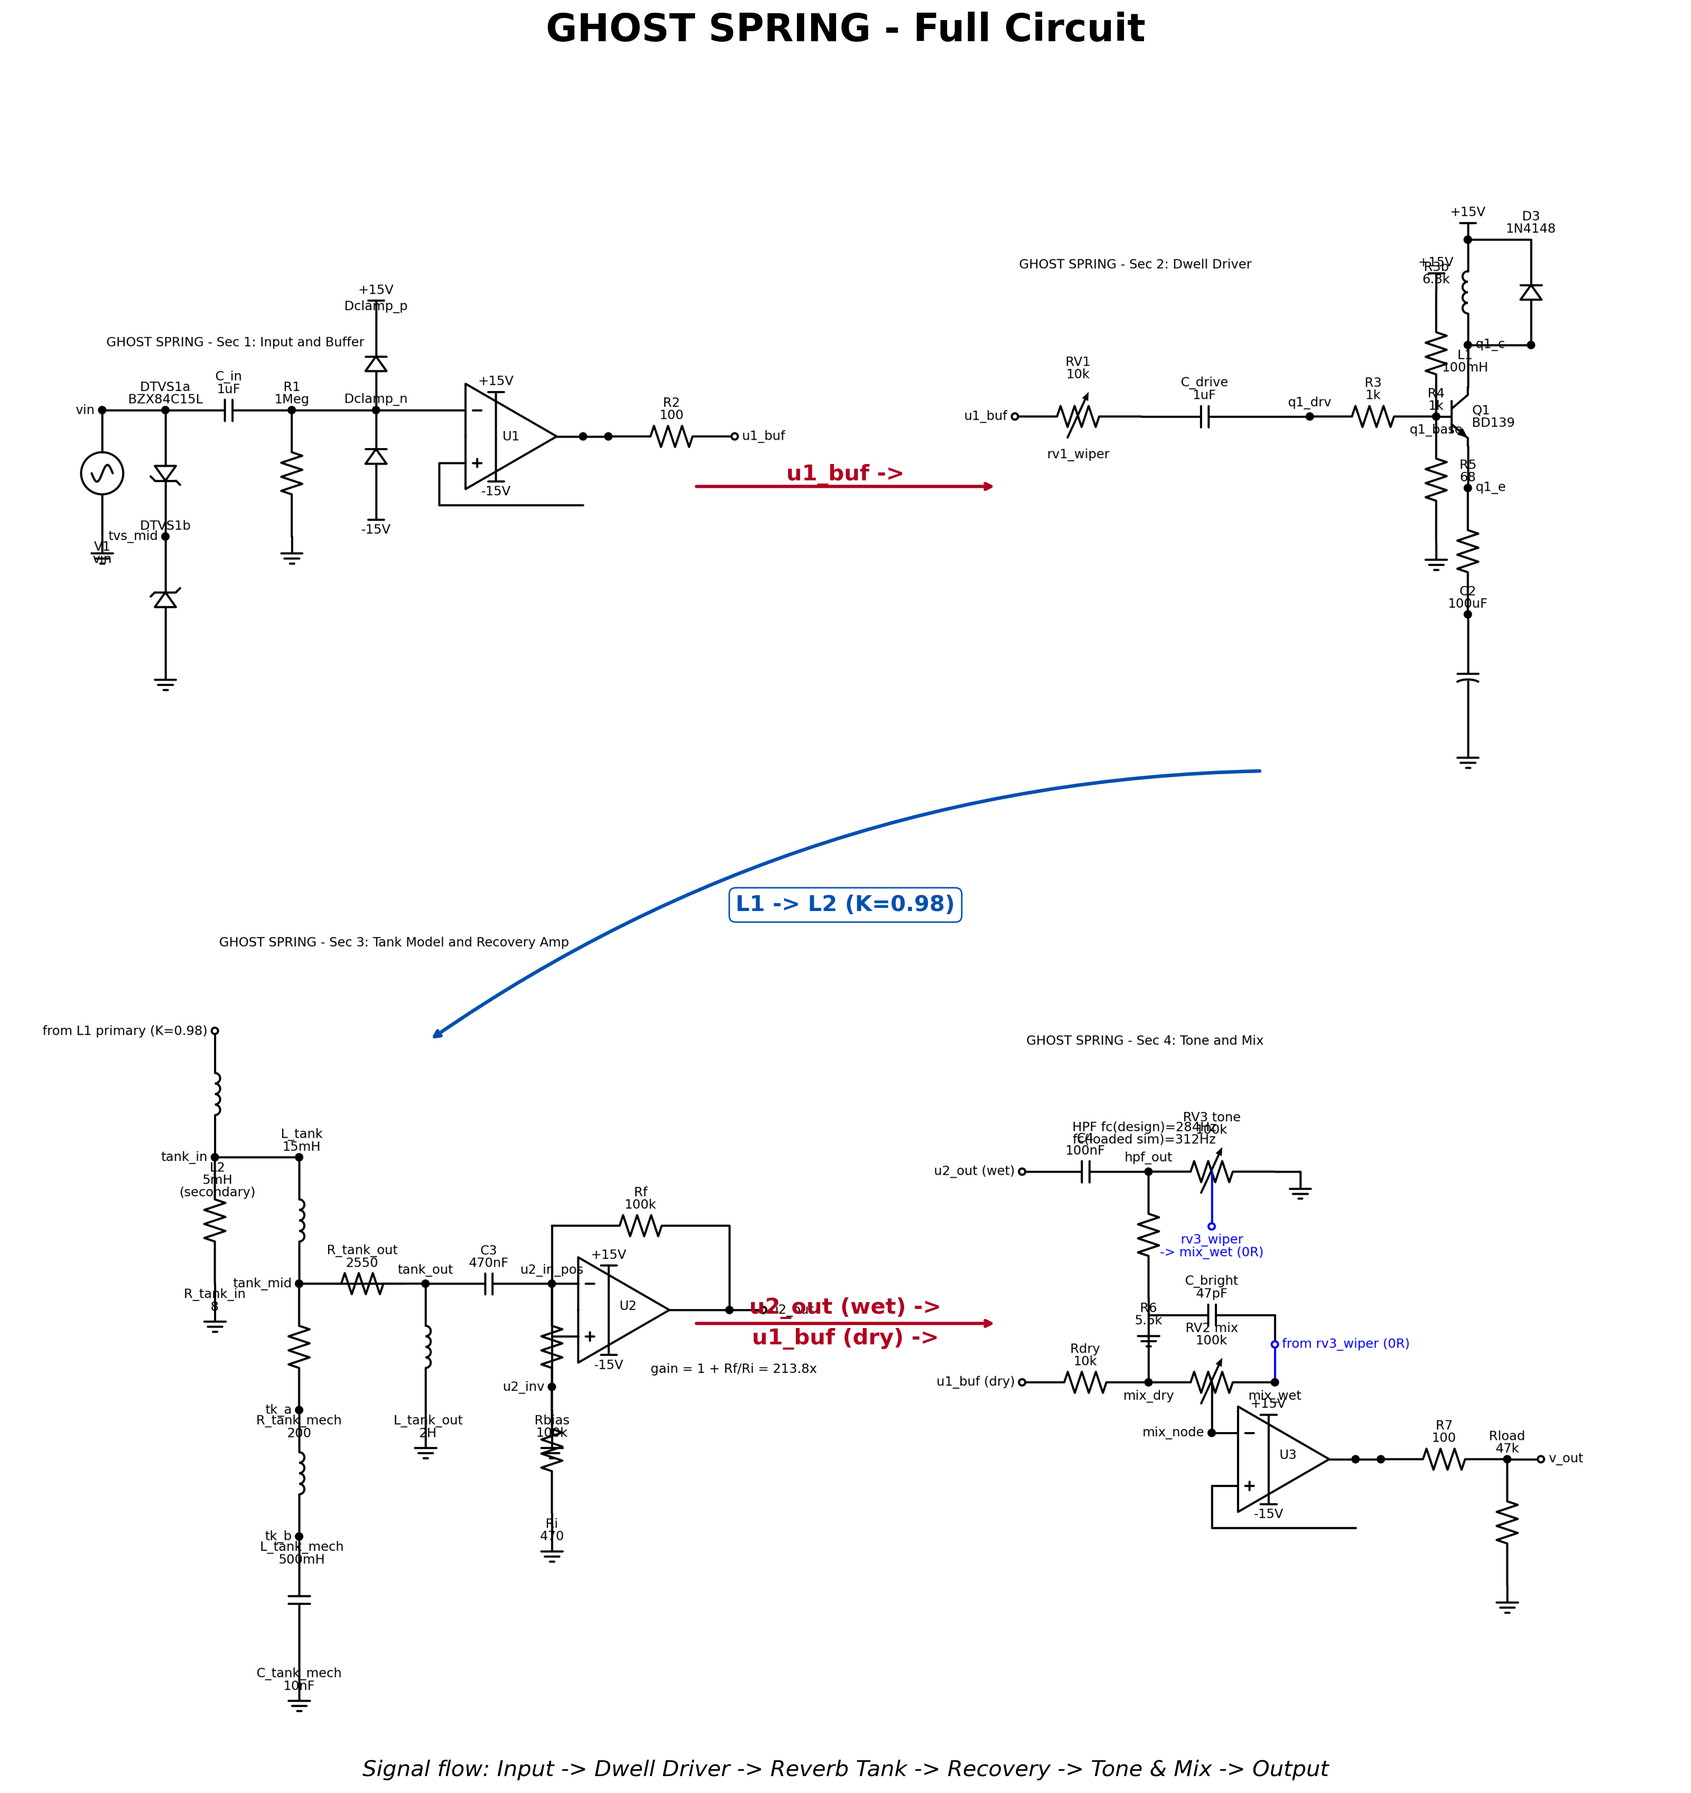
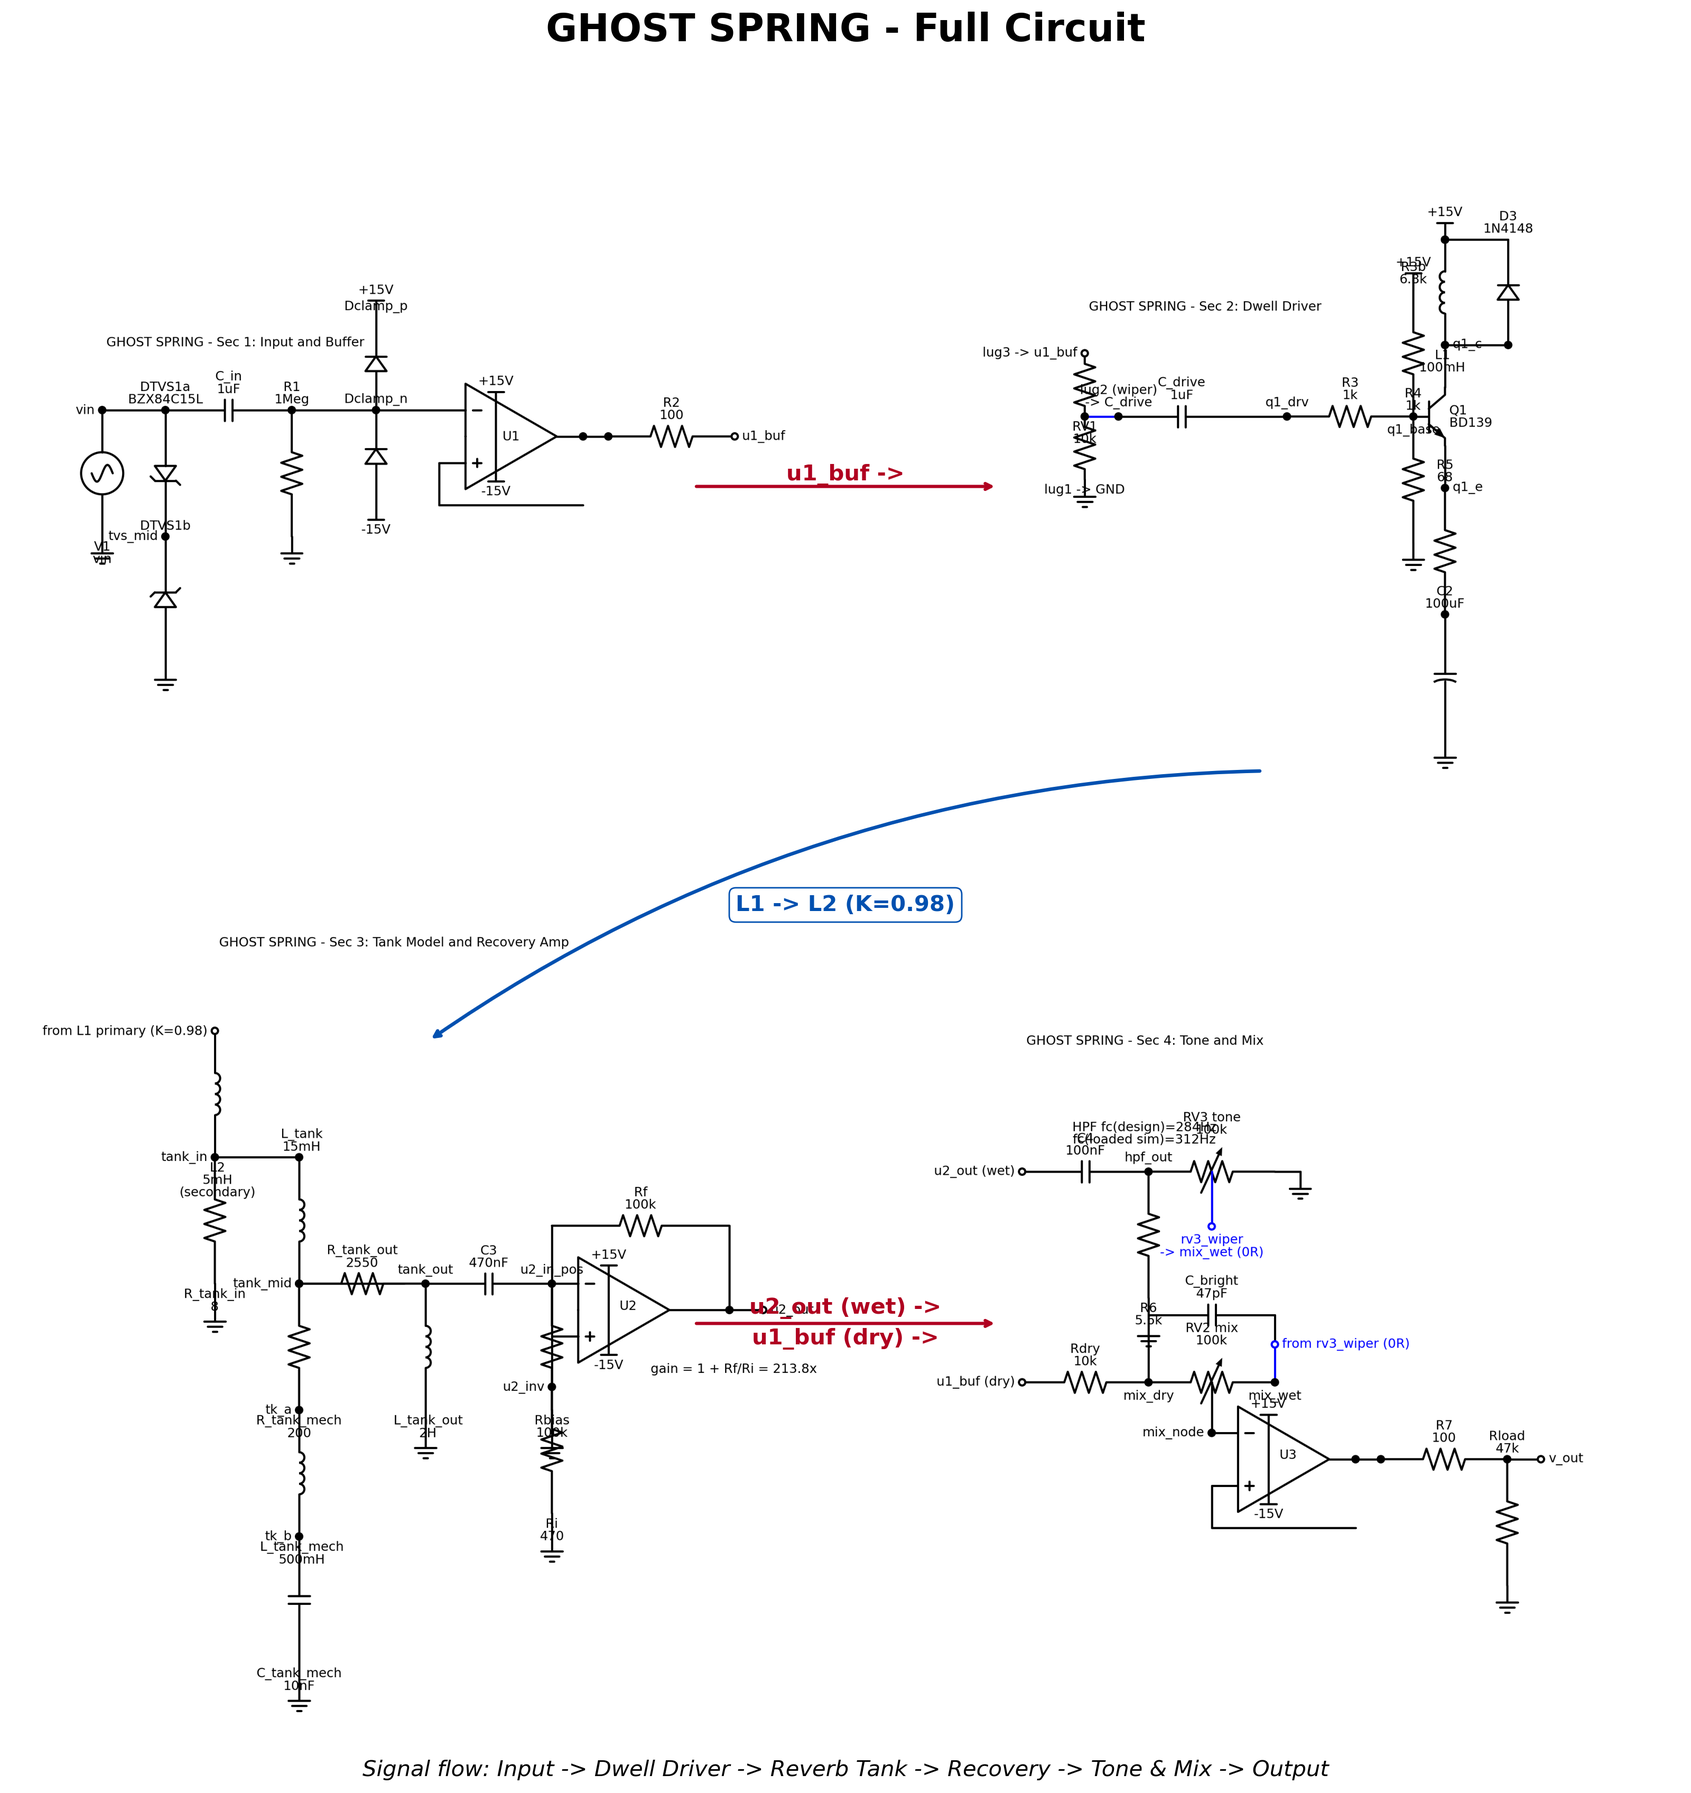
Audit fixes 7: wet-ratio probe, lo_beta Ic(Q1), RV1 3-terminal schematic, doc clarity
- stage_06_full_mix_ccw: replace tautological mix_ccw_wet_bleed (mix_node/mix_dry,
  always 1.0 due to POT_MIN_OHMS short) with mix_ccw_wet_ratio = V(mix_wet)/V(rv3_wiper),
  probing actual wet-path signal arrival independent of dry-end topology
- stage_06_full_lo_beta: fix q1_ic from AVG I(R5) (emitter) to AVG Ic(Q1) (collector),
  matching the round-5 op-netlist fix so lo_beta q1_ic_err is a real measurement
- ghost_spring_schematics section2: redraw RV1 as true 3-terminal pot divider with
  labeled lugs (lug3→u1_buf, lug1→GND, lug2 wiper→C_drive) instead of series element
- test-assertions.md: clarify {q1_ve/68} with explicit R5=68Ω annotation; add note
  that Stage 8a rail/ripple rows pass by construction under ideal-clamp model, only
  unreg_pos_min/unreg_neg_min have real enforcement teeth

diff --git a/docs/reverb-tank/stages/gen_stage6_full.py b/docs/reverb-tank/stages/gen_stage6_full.py
@@ -541,7 +541,11 @@ def build(active_analysis="op"):
         # signal-killed transient + 190-200ms tail read as the op variant.
         b.directive(".tran 0 200m 0 2u")
         b.directive(".meas TRAN q1_ve AVG V(q1_e) FROM=190m TO=200m")
-        b.directive(".meas TRAN q1_ic AVG I(R5) FROM=190m TO=200m")
+        # Ic(Q1) (collector current through the BJT), NOT I(R5) (emitter current
+        # Ie=Ve/R5). At BF=40 the base current is ~2.4% of Ie, exactly the corner
+        # where Ic and Ie diverge -- so measure the real collector current to match
+        # the op netlist's q1_ic = Ic(Q1) and gate the genuine quiescent Ic.
+        b.directive(".meas TRAN q1_ic AVG Ic(Q1) FROM=190m TO=200m")
         b.directive(".meas TRAN rail_pos AVG V(+15V) FROM=190m TO=200m")
         b.directive(".meas TRAN rail_neg AVG V(-15V) FROM=190m TO=200m")
     elif active_analysis == "ac":
@@ -615,13 +619,19 @@ def build(active_analysis="op"):
             b.directive(".meas TRAN dwell_max_wiper_pk MAX abs(V(rv1_wiper)) FROM=190m TO=200m")
         elif active_analysis == "mix_ccw":
             # Mix at 0% -> RV2a≈0, the wiper (mix_node) ties to mix_dry: 100% DRY.
-            # v_out should carry the dry signal; the wet contribution at the wiper
-            # must be negligible. mix_ccw_wet_bleed compares the wiper level to the
-            # dry-node level: at full-CCW mix_node ≈ mix_dry, so the ratio ~1.
+            # v_out should carry the dry signal. The old mix_ccw_wet_bleed compared
+            # mix_node/mix_dry, but at full-CCW RV2a=0.001 hard-shorts mix_node to
+            # mix_dry, so that ratio is ~1 regardless of the wet path -- the very
+            # short that keeps SPICE stable masked any real wet bleed (tautology).
+            # Instead probe the WET path isolation directly: measure the wet signal
+            # ARRIVING at the pot's wet lug (mix_wet) against the wet SOURCE
+            # (rv3_wiper). The wet wire (Rwet_wire, 0R) ties them, so the ratio is
+            # ~1 (wet signal arrives intact at the pot) -- a real read of the wet
+            # chain, independent of the dry-end short.
             b.directive(".meas TRAN mix_ccw_vout_pk  MAX abs(V(v_out))   FROM=190m TO=200m")
-            b.directive(".meas TRAN mix_ccw_mix_node MAX abs(V(mix_node)) FROM=190m TO=200m")
-            b.directive(".meas TRAN mix_ccw_dry_lvl  MAX abs(V(mix_dry))  FROM=190m TO=200m")
-            b.directive(".meas TRAN mix_ccw_wet_bleed PARAM {mix_ccw_mix_node/mix_ccw_dry_lvl}")
+            b.directive(".meas TRAN mix_ccw_wet_src  RMS V(rv3_wiper) FROM=190m TO=200m")
+            b.directive(".meas TRAN mix_ccw_wet_node RMS V(mix_wet)   FROM=190m TO=200m")
+            b.directive(".meas TRAN mix_ccw_wet_ratio PARAM {mix_ccw_wet_node/mix_ccw_wet_src}")
         elif active_analysis == "mix_cw":
             # Mix at 100% -> RV2b≈0, the wiper ties to mix_wet (Tone output): 100%
             # WET. v_out carries the wet (reverb) signal. mix_cw_dry_attn compares

diff --git a/docs/reverb-tank/schematics/ghost_spring_schematics.py b/docs/reverb-tank/schematics/ghost_spring_schematics.py
@@ -123,12 +123,29 @@ def section2():
     d = new_drawing()
     title(d, 'GHOST SPRING - Sec 2: Dwell Driver', at=(0, 3.5))
 
-    # Input u1_buf -> RV1 pot (resistor with wiper tap) -> C_drive
-    start = elm.Dot(open=True).label('u1_buf', loc='left')
+    # RV1 Dwell pot drawn as a TRUE 3-terminal divider (NOT a 2-terminal series
+    # resistor). Physical wiring: lug3(CW)->u1_buf, lug1(CCW)->GND, lug2(wiper)->
+    # C_drive. The pot is a resistive element from u1_buf down to GND with the
+    # wiper tapped off the middle; the wiper drives C_drive. A builder following a
+    # 2-terminal drawing would mis-wire this as a series pot instead of a divider.
+    start = elm.Dot(open=True).at((0, 2.5)).label('lug3 -> u1_buf', loc='left')
     d.add(start)
-    rv1 = elm.ResistorVar().right().at(start.start).label(f'RV1\n{cp.RV1_TOTAL}', loc='top').label('rv1_wiper', loc='bottom')
-    d.add(rv1)
-    cdrv = elm.Capacitor().right().at(rv1.end).label(f'C_drive\n{cp.C_DRIVE}F', loc='top')
+    # Top half: u1_buf (lug3, CW end) down to the wiper tap node.
+    rv1_top = elm.Resistor().down().at(start.start).length(1.5).label(
+        f'RV1\n{cp.RV1_TOTAL}', loc='left')
+    d.add(rv1_top)
+    wiper = rv1_top.end
+    d.add(elm.Dot().at(wiper))
+    # Bottom half: wiper tap node down to GND (lug1, CCW end).
+    rv1_bot = elm.Resistor().down().at(wiper).length(1.5).label(
+        'lug1 -> GND', loc='left')
+    d.add(rv1_bot)
+    d.add(elm.Ground().at(rv1_bot.end))
+    # Wiper (lug2) taps off to the right and feeds C_drive.
+    d.add(elm.Line().right().at(wiper).length(0.8).color('blue'))
+    d.add(elm.Dot().at(d.here).label('lug2 (wiper)\n-> C_drive', loc='top'))
+    cdrv = elm.Capacitor().right().at(d.here).label(
+        f'C_drive\n{cp.C_DRIVE}F', loc='top')
     d.add(cdrv)
 
     # wire right to q1_drv

diff --git a/docs/reverb-tank/stages/circuit_params.py b/docs/reverb-tank/stages/circuit_params.py
@@ -358,7 +358,13 @@ DWELL_MAX_WIPER_PK_WINDOW = (0.03, 0.15)  # at max drive the wiper sees most of 
                                         # weird amplification (> 0.15)
 DWELL_MAX_U2_PK_MAX    = 13.5           # U2 output must not rail beyond the +/-15V supply
 MIX_CCW_VOUT_WINDOW    = (0.05, 0.15)   # dry signal present at full-CCW (wet muted)
-MIX_CCW_WET_BLEED_WINDOW = (0.90, 1.05)  # mix_node/dry_lvl ratio; at full-CCW wiper ≈ mix_dry so ratio ≈ 1
+MIX_CCW_WET_BLEED_WINDOW = (0.90, 1.05)  # mix_ccw_wet_ratio = V(mix_wet)/V(rv3_wiper);
+                                        # the wet signal must arrive intact at the pot's
+                                        # wet lug (Rwet_wire is a 0R wire from the wet
+                                        # source rv3_wiper), so ratio ≈ 1. Probes the WET
+                                        # path directly instead of the old mix_node/mix_dry
+                                        # ratio, which was ~1 by construction (RV2a=0.001
+                                        # hard-shorts mix_node to mix_dry at full-CCW).
 MIX_CW_VOUT_PK_MIN  = 0.01              # V pk; wet path must deliver some signal at full-CW
 MIX_CW_DRY_ATTN_MAX = 0.50             # dry_lvl/mix_node ratio; dry should be < 50% of wiper at full-CW
 WORST_CASE_SETTLE_MAX  = 0.5            # DC at U2 out settles back to ~0 after any clip

diff --git a/docs/reverb-tank/validate.py b/docs/reverb-tank/validate.py
@@ -688,7 +688,7 @@ def check_variant_netlists():
         # that exist in NO other netlist.
         (NET6_DWELL_MIN, {"dwell_min_vout", "dwell_min_dry"}),
         (NET6_DWELL_MAX, {"dwell_max_vout_pk", "dwell_max_wiper_pk"}),
-        (NET6_MIX_CCW, {"mix_ccw_vout_pk", "mix_ccw_wet_bleed"}),
+        (NET6_MIX_CCW, {"mix_ccw_vout_pk", "mix_ccw_wet_ratio"}),
         (NET6_MIX_CW, {"mix_cw_vout_pk", "mix_cw_dry_attn"}),
         (NET6_DWELL_MAX_MIX_CW, {"worst_case_pk", "worst_case_settle"}),
         # Stage 8 stress variants (idealized -> realistic hardware deviations).
@@ -996,8 +996,8 @@ def check_assertions_md():
     # mix_ccw_vout_pk: 0.05 – 0.15 V
     expect("mix_ccw_vout window",
            "%g – %g V" % (P.MIX_CCW_VOUT_WINDOW[0], P.MIX_CCW_VOUT_WINDOW[1]))
-    # mix_ccw_wet_bleed: 0.9 – 1.05
-    expect("mix_ccw_wet_bleed window",
+    # mix_ccw_wet_ratio: 0.9 – 1.05 (wet signal arrives intact at the pot wet lug)
+    expect("mix_ccw_wet_ratio window",
            "%g – %g" % (P.MIX_CCW_WET_BLEED_WINDOW[0], P.MIX_CCW_WET_BLEED_WINDOW[1]))
     # mix_cw_vout_pk: > 0.01 V
     expect("mix_cw_vout_pk min", "> %g V" % P.MIX_CW_VOUT_PK_MIN)

diff --git a/docs/reverb-tank/test_sync.py b/docs/reverb-tank/test_sync.py
@@ -1073,12 +1073,14 @@ def test_pot_sweep_variant_exists(variant, net_name):
         "%s must drive V1 with the 100mVpk 1kHz stimulus" % net_name
 
 
-def test_mix_ccw_has_wet_bleed_meas():
+def test_mix_ccw_has_wet_ratio_meas():
     """mix_ccw (Mix full-CCW = full dry) carries both its output-level meas and
-    the wet-bleed proxy that gates dry-only output (no wet leaking through)."""
+    the wet-ratio probe that confirms the wet signal arrives intact at the pot's
+    wet lug (V(mix_wet)/V(rv3_wiper) ≈ 1) -- a real wet-path read, not the old
+    mix_node/mix_dry tautology shorted by RV2a=0.001 at full-CCW."""
     text = open(os.path.join(STAGES, "stage_06_full_mix_ccw.net")).read()
     names = _meas_names(text)
-    for needed in ("mix_ccw_vout_pk", "mix_ccw_wet_bleed"):
+    for needed in ("mix_ccw_vout_pk", "mix_ccw_wet_ratio"):
         assert needed in names, \
             "mix_ccw netlist missing .meas %s (got %s)" % (needed, sorted(names))
 

diff --git a/docs/reverb-tank/stages/test-assertions.md b/docs/reverb-tank/stages/test-assertions.md
@@ -76,8 +76,10 @@ LTspice prints `.meas` results to the SPICE Error Log (Ctrl+L). A measurement th
 ;   goes through the transistor model and differs from Ie by the base current ~1%
 ;   at Bf=100, so the cross-check is now a real ~1% read.) This catches an
 ;   inconsistent bias read that q1_ve / q1_ic alone would each pass. The divisor
-;   tracks circuit_params.R5, so it never silently drifts if R5 changes:
-.meas TRAN q1_ic_calc PARAM {q1_ve/R5}
+;   tracks circuit_params.R5, so it never silently drifts if R5 changes.
+;   (R5=68Ω, interpolated by the generator — 'R5' is a component instance name in
+;   LTspice, NOT a .param, so the literal {q1_ve/68} is what the netlist carries.)
+.meas TRAN q1_ic_calc PARAM {q1_ve/68}
 .meas TRAN q1_ic      AVG Ic(Q1) FROM=190m TO=200m
 .meas TRAN q1_ic_err  PARAM {abs(q1_ic - q1_ic_calc) / q1_ic_calc}
 
@@ -102,7 +104,7 @@ LTspice prints `.meas` results to the SPICE Error Log (Ctrl+L). A measurement th
 |---|---|---|---|
 | `q1_ve` | `V(q1_e)` | 1.0 – 1.4 V (sim 1.09 V; first-order 1.22 V) | Bias divider/R5 wrong — wrong operating point |
 | `q1_ic` | `Ic(Q1)` | 10 – 26 mA (sim 16 mA; first-order 18 mA) | Quiescent current off — under/over-driven tank |
-| `q1_ic_calc` | `q1_ve/R5` (Ve across R5) | compared to `q1_ic` below | Ve-implied Ic and the BJT collector current disagree — wrong R5 or mis-probed emitter |
+| `q1_ic_calc` | `q1_ve/68` (Ve across R5; R5=68Ω, interpolated by generator) | compared to `q1_ic` below | Ve-implied Ic and the BJT collector current disagree — wrong R5 or mis-probed emitter |
 | `q1_ic` | `Ic(Q1)` (collector current through the BJT) | 10 – 26 mA | the independent comparison target for `q1_ic_calc` |
 | `q1_ic_err` | `\|q1_ic − q1_ic_calc\| / q1_ic_calc` | < 10% | Ve-implied Ic and the measured collector current disagree by > 10% |
 | `q1_vc` | `V(q1_c)` (collector DC) | 3 – 15.2 V (sim ≈14.6 V) | Collector pinned low — Q1 saturated or transformer/D3 short |
@@ -307,13 +309,16 @@ Q1 emitter `q1_e`, and the post-clip DC-settle at `u2_out`).
 .meas TRAN dwell_max_vout_pk MAX abs(V(u2_out)) FROM=50m TO=200m
 .meas TRAN dwell_max_wiper_pk MAX abs(V(rv1_wiper)) FROM=190m TO=200m
 
-; mix_ccw — Mix 0% (RV2a≈0, RV2b=100k = full dry): wiper ties to mix_dry; the
-;   wet contribution at the wiper must be negligible (wet_bleed ≈ 1, i.e. the
-;   wiper just tracks the dry node — no extra wet on top).
+; mix_ccw — Mix 0% (RV2a≈0, RV2b=100k = full dry): wiper ties to mix_dry. The old
+;   mix_ccw_wet_bleed = mix_node/mix_dry was a tautology — RV2a=0.001 hard-shorts
+;   mix_node to mix_dry at full-CCW, so the ratio is ~1 regardless of the wet path.
+;   Instead probe the WET path directly: the wet signal must arrive INTACT at the
+;   pot's wet lug (mix_wet) from the wet source (rv3_wiper, tied by the 0R
+;   Rwet_wire), so mix_ccw_wet_ratio = V(mix_wet)/V(rv3_wiper) ≈ 1.
 .meas TRAN mix_ccw_vout_pk   MAX abs(V(v_out))    FROM=190m TO=200m
-.meas TRAN mix_ccw_mix_node  MAX abs(V(mix_node)) FROM=190m TO=200m
-.meas TRAN mix_ccw_dry_lvl   MAX abs(V(mix_dry))  FROM=190m TO=200m
-.meas TRAN mix_ccw_wet_bleed PARAM {mix_ccw_mix_node/mix_ccw_dry_lvl}
+.meas TRAN mix_ccw_wet_src   RMS V(rv3_wiper) FROM=190m TO=200m
+.meas TRAN mix_ccw_wet_node  RMS V(mix_wet)   FROM=190m TO=200m
+.meas TRAN mix_ccw_wet_ratio PARAM {mix_ccw_wet_node/mix_ccw_wet_src}
 
 ; mix_cw — Mix 100% (RV2a=100k, RV2b≈0 = full wet): wiper ties to mix_wet (Tone
 ;   output); the dry node sees little of the wiper (dry_attn small).
@@ -335,7 +340,7 @@ Q1 emitter `q1_e`, and the post-clip DC-settle at `u2_out`).
 | `dwell_max` | 100 % / 50 % / 50 % | `dwell_max_vout_pk` | < 13.5 V (no hard clip at U2) | U2 railing at max Dwell drive |
 | `dwell_max` | 100 % / 50 % / 50 % | `dwell_max_wiper_pk` | 0.03 – 0.15 V (wiper carries the drive) | Wet drive dead at max Dwell — Dwell pot inverted or wiper open |
 | `mix_ccw` | 50 % / 0 % / 50 % | `mix_ccw_vout_pk` | 0.05 – 0.15 V (dry present) | Dry signal absent at full-CCW |
-| `mix_ccw` | 50 % / 0 % / 50 % | `mix_ccw_wet_bleed` | 0.9 – 1.05 (wiper tracks dry node ≈ 1) | Wet bleeds through at full-CCW |
+| `mix_ccw` | 50 % / 0 % / 50 % | `mix_ccw_wet_ratio` | 0.9 – 1.05 (wet arrives intact at pot wet lug `V(mix_wet)/V(rv3_wiper)` ≈ 1) | Wet path broken/attenuated at full-CCW |
 | `mix_cw` | 50 % / 100 % / 50 % | `mix_cw_vout_pk` | > 0.01 V (wet signal present) | Output dead at full-CW |
 | `mix_cw` | 50 % / 100 % / 50 % | `mix_cw_dry_attn` | < 0.5 (dry node attenuated vs wiper) | Dry bleeds through at full-CW |
 | `dwell_max_mix_cw` | 100 % / 100 % / 50 % | `worst_case_pk` | ≤ 13.5 V (U2 within supply → DWELL_MAX_U2_PK_MAX) | U2 rails on the worst-case path |
@@ -399,6 +404,8 @@ floor `UNREG_TROUGH_MIN` (> 17 V (trough)).
 | `psu_low_mains` (0.90×) | `unreg_pos` / `unreg_neg` | > 17 V | Bus below dropout — rail unregulates |
 | `psu_low_mains` (0.90×) | `unreg_pos_min` / `\|unreg_neg_min\|` | > 17 V (trough) | Ripple trough dips below dropout — rail unregulates at the bottom of each cycle |
 
+> *Note: the `rail_pos`/`rail_neg` and `ripple_pos`/`ripple_neg` rows pass by construction under the behavioural LM78xx/LM79xx model (`min(V(IN,COM)−2, 15)`): as long as the bus trough clears 17 V the regulator output is pinned to ±15 V with no ripple. The binding constraint on this variant is `unreg_pos_min`/`unreg_neg_min` (trough ≥ 17 V) — that is the only row with real teeth here.*
+
 ### 8b — U2 input offset injection (Vos stress)
 
 A real **OPA2134** has an input offset voltage **Vos up to 500 µV** (typ 50 µV).
@@ -431,9 +438,11 @@ fall out of window at BF=40, the bias design is *not* beta-independent — a rea
 defect.
 
 ```spice
-; lo_beta — BD139 with BF=40 (datasheet hFE min); SAME Q1 bias windows
+; lo_beta — BD139 with BF=40 (datasheet hFE min); SAME Q1 bias windows.
+;   q1_ic = Ic(Q1) (collector current through the BJT), NOT I(R5) (emitter Ie):
+;   at BF=40 the base current is ~2.4% of Ie, the corner where Ic and Ie diverge.
 .meas TRAN q1_ve AVG V(q1_e) FROM=190m TO=200m
-.meas TRAN q1_ic AVG I(R5)   FROM=190m TO=200m
+.meas TRAN q1_ic AVG Ic(Q1)  FROM=190m TO=200m
 ```
 
 | Variant | Assertion | Pass condition | Fail means |
